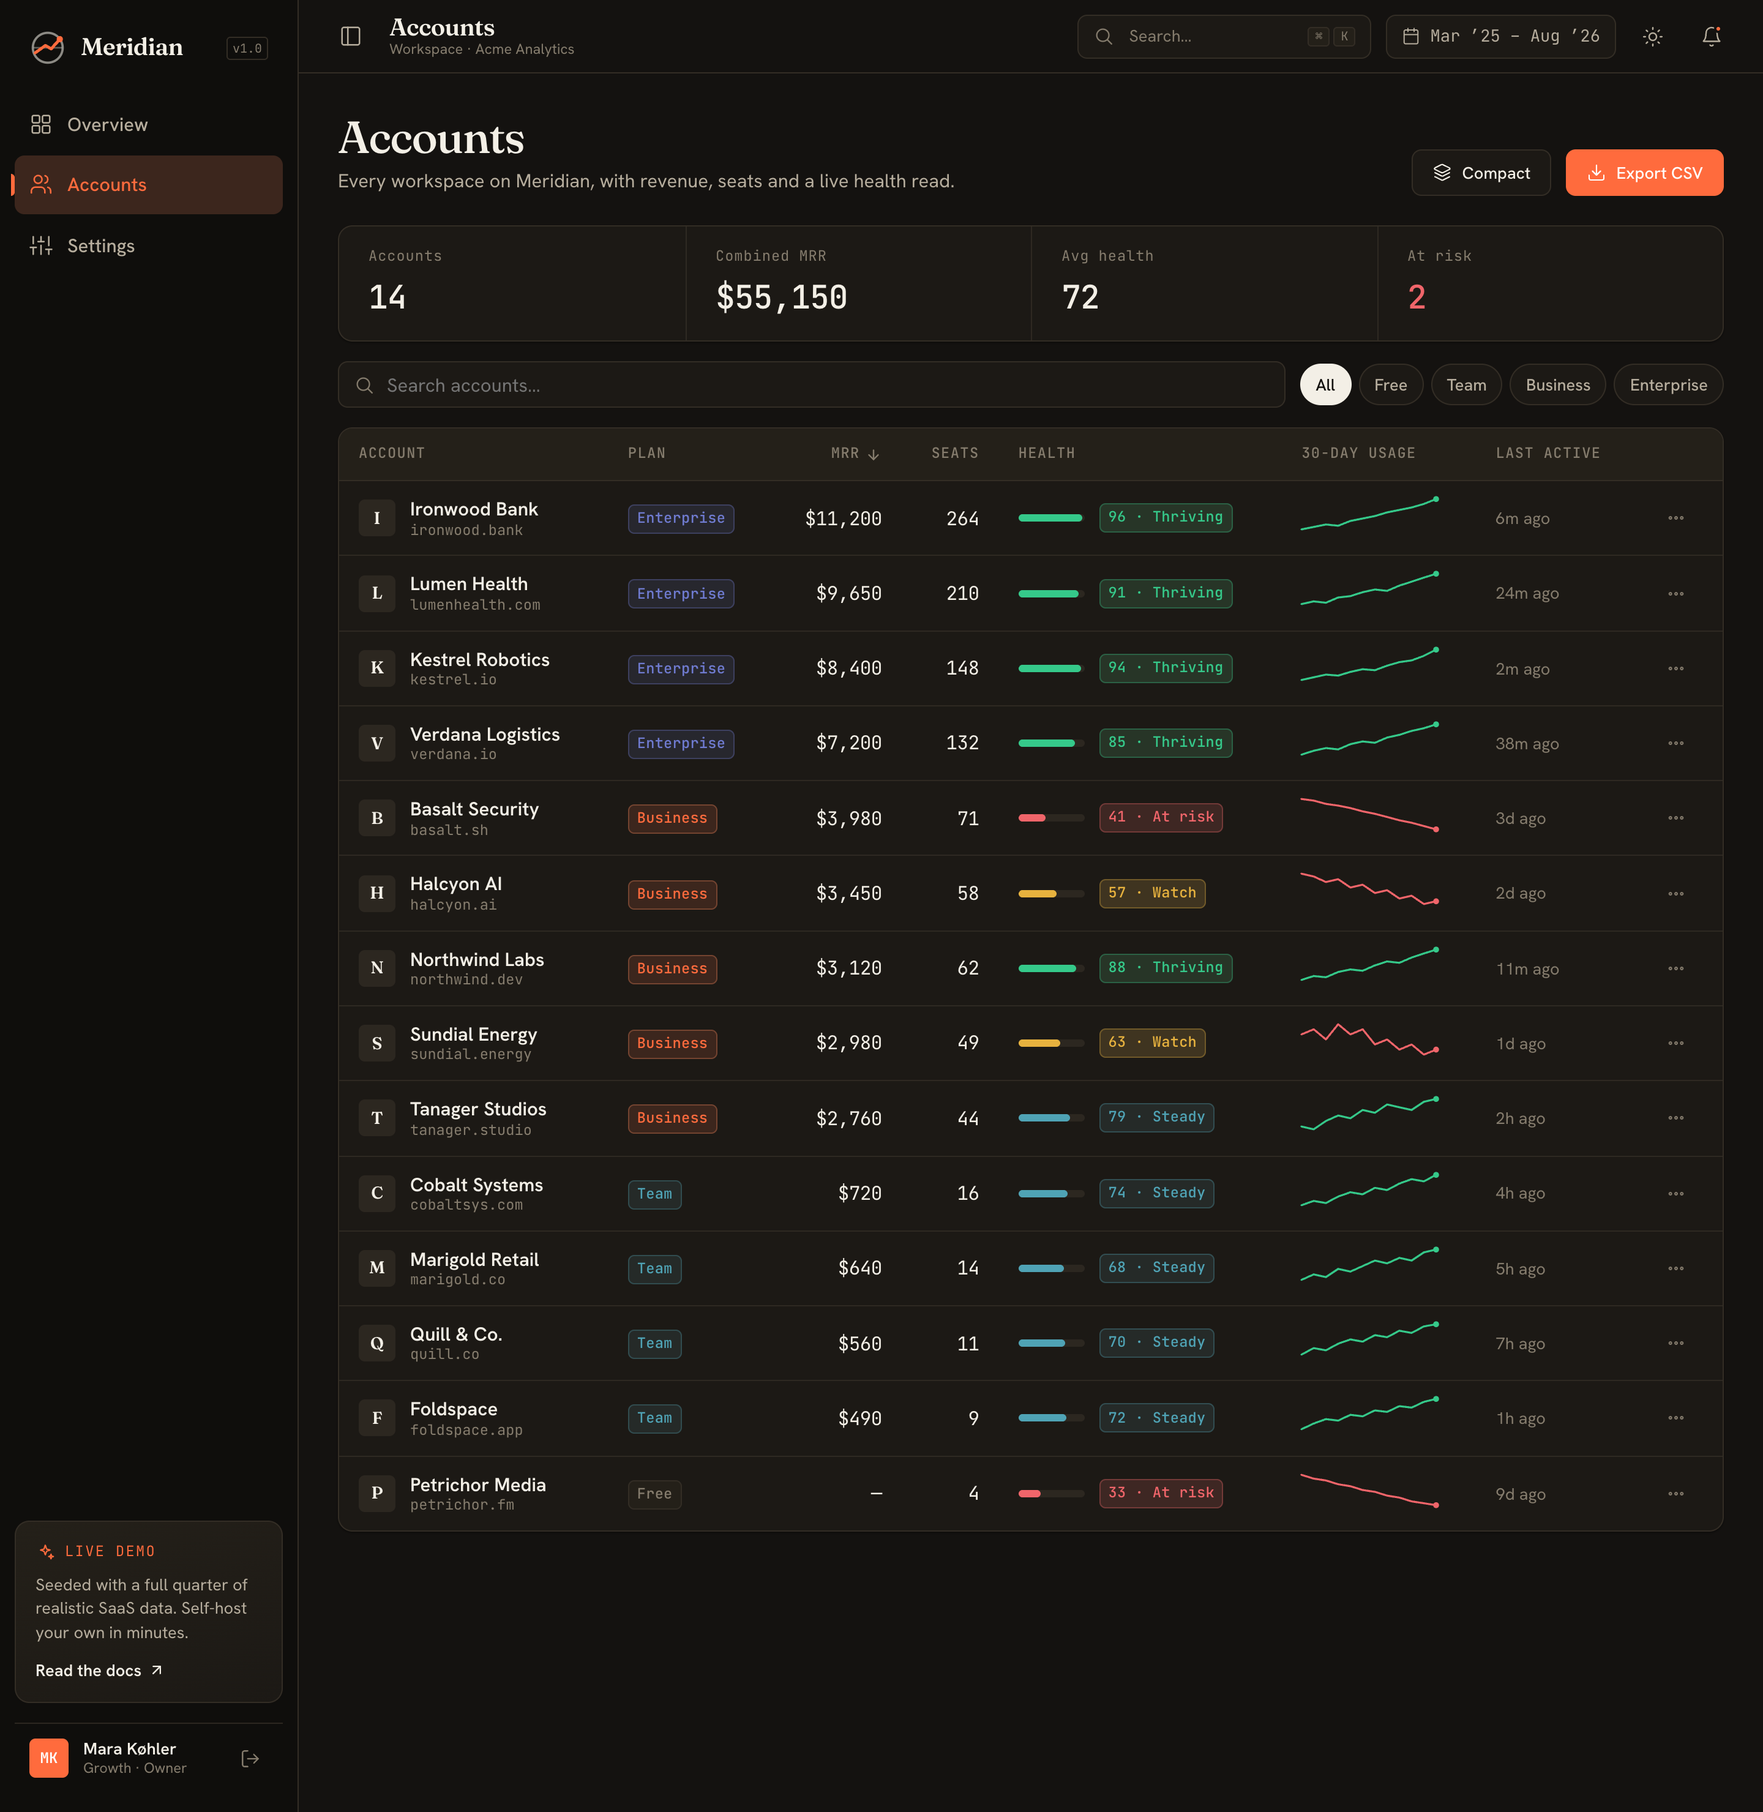
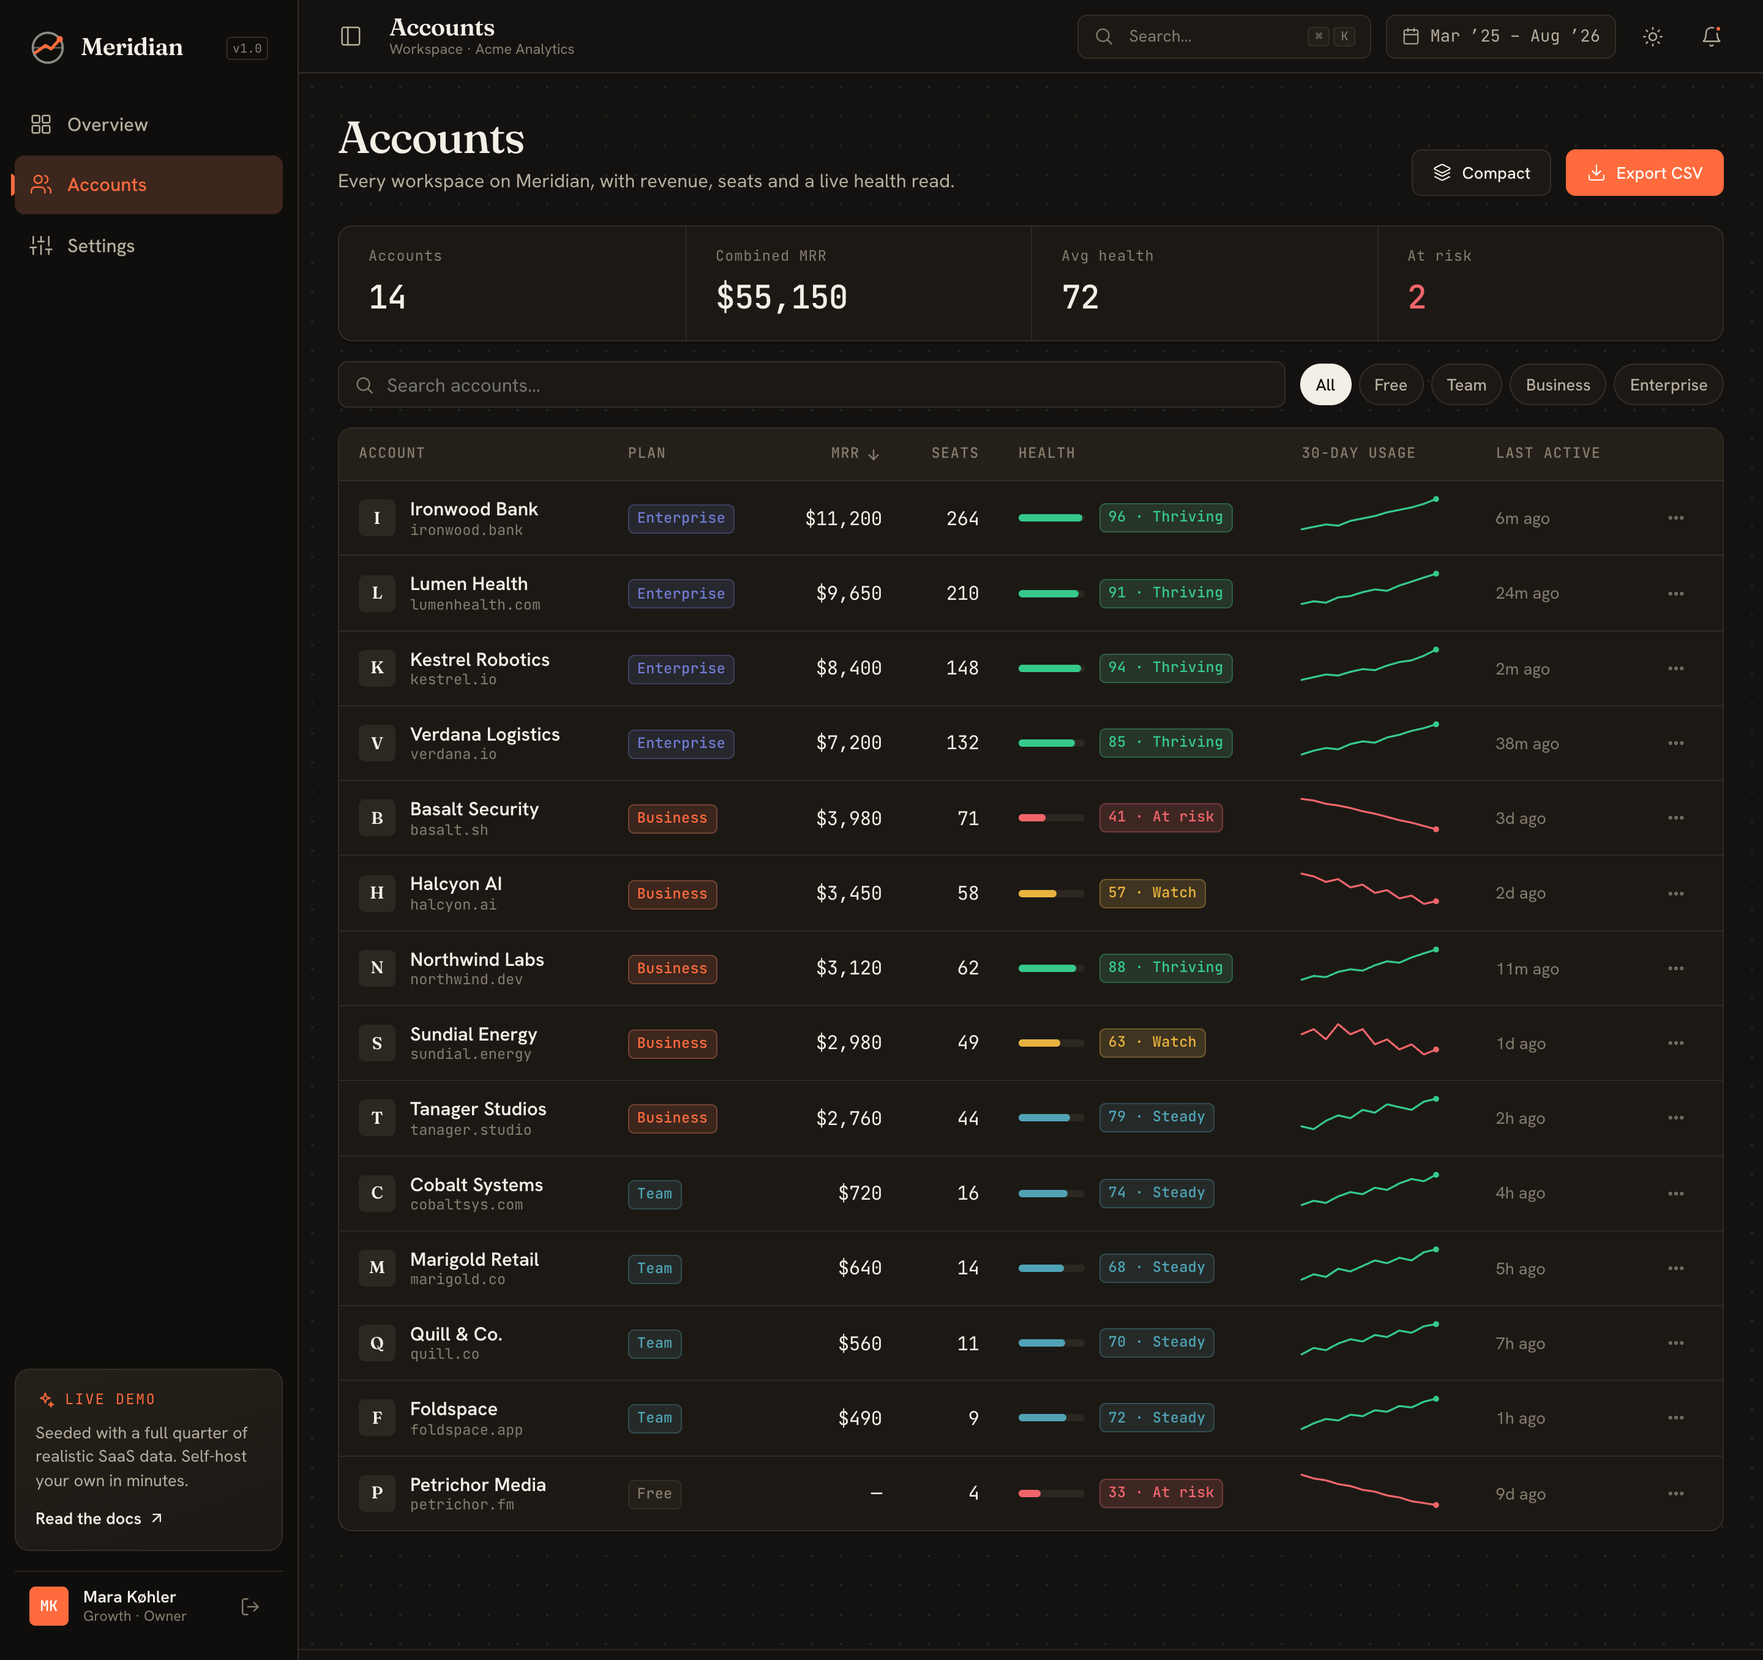
Add CI, polish charts & KPI cards, footer links, dot-grid texture
- CI: GitHub Actions workflow builds (npm ci + npm run build) on PRs and pushes to main
- KPI cards: icon chips, accent gradient on the featured tile, colored sparklines
- Charts: endpoint value labels + richer gradients on the MRR/usage areas, crosshair
  axis pointers, rounded movement bars
- Add a visible site footer with dofollow links (GitHub, Interviews Vector, AII Stack,
  UPSC Geeks); fix host display so it renders
- Subtle dot-grid texture behind content for depth
- "Read the docs" / "View on GitHub" now point at the repo
- Re-capture all screenshots; add CI badge to the README

diff --git a/src/app/data/chart-options.ts b/src/app/data/chart-options.ts
@@ -27,11 +27,12 @@ const axisLabelMono = (vt: VizTheme, extra: object = {}) => ({
    -------------------------------------------------------------------------- */
 export function mrrAreaOption(vt: VizTheme, months: MonthPoint[]): EChartsOption {
   return {
-    animationDuration: 600,
-    grid: { left: 8, right: 14, top: 18, bottom: 6, containLabel: true },
+    animationDuration: 700,
+    grid: { left: 8, right: 70, top: 22, bottom: 6, containLabel: true },
     tooltip: {
       trigger: 'axis',
       ...tooltipBase(vt),
+      axisPointer: { type: 'line', lineStyle: { color: vt.accent, width: 1, type: 'dashed' } },
       formatter: (p: any) => {
         const d = p[0];
         return `<div style="font-family:${vt.fontMono};font-size:11px;color:${vt.textMuted};letter-spacing:.04em">${d.axisValue}</div>
@@ -61,15 +62,25 @@ export function mrrAreaOption(vt: VizTheme, months: MonthPoint[]): EChartsOption
         symbolSize: 6,
         showSymbol: false,
         data: months.map((m) => m.mrr),
-        lineStyle: { color: vt.accent, width: 2.5 },
+        lineStyle: { color: vt.accent, width: 3, shadowColor: vt.accent + '44', shadowBlur: 12, shadowOffsetY: 6 },
         itemStyle: { color: vt.accent, borderColor: vt.surface, borderWidth: 2 },
         emphasis: { focus: 'series' },
+        endLabel: {
+          show: true,
+          color: vt.accent,
+          fontFamily: vt.fontMono,
+          fontWeight: 700,
+          fontSize: 12,
+          formatter: (p: any) => usdCompact(p.value),
+          offset: [6, 0],
+        },
         areaStyle: {
           color: {
             type: 'linear',
             x: 0, y: 0, x2: 0, y2: 1,
             colorStops: [
-              { offset: 0, color: vt.accent + '55' },
+              { offset: 0, color: vt.accent + '66' },
+              { offset: 0.55, color: vt.accent + '22' },
               { offset: 1, color: vt.accent + '00' },
             ],
           },
@@ -89,7 +100,7 @@ export function movementsOption(vt: VizTheme, months: MonthPoint[]): EChartsOpti
     type: 'bar' as const,
     stack: 'mov',
     data: last.map((m) => (neg ? -(m[key] as number) : (m[key] as number))),
-    itemStyle: { color, borderRadius: 1 },
+    itemStyle: { color, borderRadius: 2 },
     barMaxWidth: 22,
     emphasis: { focus: 'series' as const },
   });
@@ -234,11 +245,12 @@ export function funnelOption(vt: VizTheme, steps: FunnelStep[]): EChartsOption {
    -------------------------------------------------------------------------- */
 export function usageAreaOption(vt: VizTheme, labels: string[], values: number[]): EChartsOption {
   return {
-    animationDuration: 500,
-    grid: { left: 4, right: 12, top: 16, bottom: 4, containLabel: true },
+    animationDuration: 600,
+    grid: { left: 4, right: 40, top: 16, bottom: 4, containLabel: true },
     tooltip: {
       trigger: 'axis',
       ...tooltipBase(vt),
+      axisPointer: { type: 'line', lineStyle: { color: vt.accent, width: 1, type: 'dashed' } },
       formatter: (p: any) => {
         const d = p[0];
         return `<div style="font-family:${vt.fontMono};font-size:11px;color:${vt.textMuted}">${d.axisValue}</div>
@@ -266,12 +278,22 @@ export function usageAreaOption(vt: VizTheme, labels: string[], values: number[]
         smooth: 0.4,
         symbol: 'none',
         data: values,
-        lineStyle: { color: vt.accent, width: 2.5 },
+        lineStyle: { color: vt.accent, width: 3 },
+        endLabel: {
+          show: true,
+          color: vt.accent,
+          fontFamily: vt.fontMono,
+          fontWeight: 700,
+          fontSize: 12,
+          formatter: (p: any) => `${p.value}`,
+          offset: [6, 0],
+        },
         areaStyle: {
           color: {
             type: 'linear', x: 0, y: 0, x2: 0, y2: 1,
             colorStops: [
-              { offset: 0, color: vt.accent + '4d' },
+              { offset: 0, color: vt.accent + '5c' },
+              { offset: 0.55, color: vt.accent + '1f' },
               { offset: 1, color: vt.accent + '00' },
             ],
           },

diff --git a/src/app/shared/stat-tile.ts b/src/app/shared/stat-tile.ts
@@ -1,4 +1,4 @@
-import { ChangeDetectionStrategy, Component, input } from '@angular/core';
+import { ChangeDetectionStrategy, Component, computed, input } from '@angular/core';
 import { Icon } from '../core/icon';
 import { Sparkline } from './sparkline';
 import { Kpi } from '../data/seed';
@@ -8,9 +8,10 @@ import { Kpi } from '../data/seed';
   changeDetection: ChangeDetectionStrategy.OnPush,
   imports: [Icon, Sparkline],
   template: `
-    <article class="tile" [class.feat]="featured()">
+    <article class="tile" [class.feat]="featured()" [style.--tile-accent]="accent()">
       <header>
         <span class="eyebrow">{{ kpi().label }}</span>
+        <span class="chip"><app-icon [name]="kpi().icon" [size]="16" [stroke]="1.8" /></span>
       </header>
 
       <div class="value num">{{ kpi().value }}</div>
@@ -23,11 +24,12 @@ import { Kpi } from '../data/seed';
         <span class="foot">{{ kpi().footnote }}</span>
       </div>
 
-      <app-sparkline class="spark" [data]="kpi().spark" [h]="featured() ? 48 : 36" [area]="true" />
+      <app-sparkline class="spark" [data]="kpi().spark" [h]="featured() ? 54 : 40" [area]="true" />
     </article>
   `,
   styles: `
     .tile {
+      position: relative;
       display: flex; flex-direction: column; gap: var(--sp-2);
       padding: var(--sp-4);
       background: var(--surface);
@@ -35,24 +37,40 @@ import { Kpi } from '../data/seed';
       border-radius: var(--r-lg);
       box-shadow: var(--shadow-1);
       min-height: 100%;
-      transition: border-color var(--dur) var(--ease), transform var(--dur) var(--ease);
+      overflow: hidden;
+      transition: border-color var(--dur) var(--ease), transform var(--dur) var(--ease), box-shadow var(--dur) var(--ease);
     }
-    .tile:hover { border-color: var(--border-strong); transform: translateY(-1px); }
-    header { display: flex; align-items: center; justify-content: space-between; }
-    .value {
-      font-size: var(--step-3);
-      font-weight: 500;
-      line-height: 1;
-      color: var(--text);
+    .tile::before {
+      content: ''; position: absolute; inset: 0 0 auto 0; height: 2px;
+      background: var(--tile-accent); opacity: 0; transition: opacity var(--dur) var(--ease);
     }
+    .tile:hover { border-color: var(--border-strong); transform: translateY(-2px); box-shadow: var(--shadow-2); }
+    .tile:hover::before { opacity: .8; }
+    .feat {
+      background: linear-gradient(165deg, color-mix(in oklab, var(--accent) 9%, var(--surface)), var(--surface) 62%);
+      border-color: var(--accent-line);
+    }
+    .feat::before { opacity: 1; }
+
+    header { display: flex; align-items: center; justify-content: space-between; gap: var(--sp-2); }
+    .chip {
+      width: 30px; height: 30px; flex-shrink: 0;
+      display: grid; place-items: center; border-radius: var(--r-sm);
+      background: color-mix(in oklab, var(--tile-accent) 14%, var(--surface));
+      color: var(--tile-accent);
+    }
+    .value { font-size: var(--step-3); font-weight: 500; line-height: 1; color: var(--text); }
     .feat .value { font-size: var(--step-4); }
     .meta { display: flex; align-items: center; gap: var(--sp-2); flex-wrap: wrap; }
     .foot { font-size: var(--step--2); color: var(--text-3); }
-    .spark { margin-top: auto; width: 100%; color: var(--accent); }
-    .feat .spark { color: var(--accent); }
+    .spark { margin-top: auto; width: 100%; color: var(--tile-accent); }
   `,
 })
 export class StatTile {
   readonly kpi = input.required<Kpi>();
   readonly featured = input(false);
+
+  protected readonly accent = computed(() =>
+    this.featured() ? 'var(--accent)' : this.kpi().good ? 'var(--pos)' : 'var(--neg)',
+  );
 }

diff --git a/src/app/layout/footer.ts b/src/app/layout/footer.ts
@@ -1,0 +1,61 @@
+import { ChangeDetectionStrategy, Component } from '@angular/core';
+import { Icon } from '../core/icon';
+
+@Component({
+  selector: 'app-footer',
+  changeDetection: ChangeDetectionStrategy.OnPush,
+  imports: [Icon],
+  template: `
+    <footer class="footer">
+      <div class="inner">
+        <div class="brand">
+          <span class="mark" aria-hidden="true">
+            <svg viewBox="0 0 24 24" fill="none">
+              <circle cx="12" cy="12" r="10" stroke="currentColor" stroke-width="1.6" opacity=".5" />
+              <path d="M4 15 10.5 10.5 14 12.5 20 7" stroke="var(--accent)" stroke-width="2"
+                    stroke-linecap="round" stroke-linejoin="round" />
+            </svg>
+          </span>
+          <span class="name">Meridian</span>
+          <span class="dot">·</span>
+          <span class="muted">© 2026 · MIT</span>
+        </div>
+
+        <nav class="links" aria-label="Related resources">
+          <a href="https://github.com/MohammadWasi/meridian" target="_blank" rel="noopener">
+            GitHub <app-icon name="arrow-up-right" [size]="13" [stroke]="2" />
+          </a>
+          <a href="https://www.interviewsvector.com/" target="_blank" rel="noopener">Interviews Vector</a>
+          <a href="https://aiistack.com/" target="_blank" rel="noopener">AII Stack</a>
+          <a href="https://www.upscgeeks.in/" target="_blank" rel="noopener">UPSC Geeks</a>
+        </nav>
+      </div>
+    </footer>
+  `,
+  styles: `
+    :host { display: block; }
+    .footer { border-top: 1px solid var(--hairline); margin-top: var(--sp-6); }
+    .inner {
+      max-width: var(--content-max);
+      margin: 0 auto;
+      padding: var(--sp-5) var(--sp-6);
+      display: flex; align-items: center; justify-content: space-between;
+      gap: var(--sp-4); flex-wrap: wrap;
+    }
+    .brand { display: flex; align-items: center; gap: var(--sp-2); font-size: var(--step--1); }
+    .mark { width: 20px; height: 20px; color: var(--text); }
+    .mark svg { width: 100%; height: 100%; display: block; }
+    .name { font-family: var(--font-display); font-weight: 600; letter-spacing: -.01em; }
+    .dot { color: var(--text-3); }
+    .muted { color: var(--text-3); font-family: var(--font-mono); font-size: var(--step--2); }
+    .links { display: flex; align-items: center; gap: var(--sp-5); flex-wrap: wrap; }
+    .links a {
+      display: inline-flex; align-items: center; gap: 4px;
+      color: var(--text-2); font-size: var(--step--1); font-weight: 500;
+      transition: color var(--dur) var(--ease);
+    }
+    .links a:hover { color: var(--accent); }
+    @media (max-width: 640px) { .inner { padding: var(--sp-4); } .links { gap: var(--sp-4); } }
+  `,
+})
+export class Footer {}

diff --git a/src/app/data/seed.ts b/src/app/data/seed.ts
@@ -5,6 +5,8 @@
    and account rows roll up to the totals shown on Overview.
    ========================================================================== */
 
+import { IconName } from '../core/icon';
+
 export interface MonthPoint {
   label: string;
   mrr: number;
@@ -70,6 +72,7 @@ export interface Kpi {
   good: boolean; // is this movement good?
   spark: number[];
   footnote: string;
+  icon: IconName;
 }
 
 const mrrMoM = ((latest.mrr - prev.mrr) / prev.mrr) * 100;
@@ -86,6 +89,7 @@ export const KPIS: Kpi[] = [
     good: true,
     spark: sparkMrr,
     footnote: `${'$4.93M'} ARR`,
+    icon: 'card',
   },
   {
     key: 'nrr',
@@ -97,6 +101,7 @@ export const KPIS: Kpi[] = [
     good: true,
     spark: [104, 105, 106, 106, 107, 108, 108, 109, 110, 110, 111, 112],
     footnote: 'trailing 12-mo, logo-weighted',
+    icon: 'target',
   },
   {
     key: 'accounts',
@@ -108,6 +113,7 @@ export const KPIS: Kpi[] = [
     good: true,
     spark: [1042, 1071, 1096, 1118, 1141, 1163, 1188, 1205, 1226, 1243, 1262, 1284],
     footnote: '87 on Enterprise',
+    icon: 'accounts',
   },
   {
     key: 'activation',
@@ -119,6 +125,7 @@ export const KPIS: Kpi[] = [
     good: true,
     spark: [58, 59, 61, 60, 62, 63, 64, 64, 66, 66, 67, 68.4],
     footnote: 'trial → activated in 14 days',
+    icon: 'zap',
   },
   {
     key: 'churn',
@@ -130,6 +137,7 @@ export const KPIS: Kpi[] = [
     good: true,
     spark: [3.1, 3.0, 2.9, 3.1, 2.8, 2.7, 2.8, 2.6, 2.5, 2.4, 2.4, 2.1],
     footnote: 'monthly, revenue-weighted',
+    icon: 'trending-down',
   },
 ];
 

diff --git a/src/app/app.ts b/src/app/app.ts
@@ -2,13 +2,14 @@ import { ChangeDetectionStrategy, Component, inject } from '@angular/core';
 import { RouterOutlet } from '@angular/router';
 import { Sidebar } from './layout/sidebar';
 import { Topbar } from './layout/topbar';
+import { Footer } from './layout/footer';
 import { CommandPalette } from './shared/command-palette';
 import { LayoutService } from './layout/layout.service';
 
 @Component({
   selector: 'app-root',
   changeDetection: ChangeDetectionStrategy.OnPush,
-  imports: [RouterOutlet, Sidebar, Topbar, CommandPalette],
+  imports: [RouterOutlet, Sidebar, Topbar, Footer, CommandPalette],
   templateUrl: './app.html',
   styleUrl: './app.css',
   host: {

diff --git a/src/app/layout/sidebar.ts b/src/app/layout/sidebar.ts
@@ -41,7 +41,7 @@ import { LayoutService } from './layout.service';
         <span>Live demo</span>
       </div>
       <p>Seeded with a full quarter of realistic SaaS data. Self-host your own in minutes.</p>
-      <a class="cta" href="https://github.com" target="_blank" rel="noopener">
+      <a class="cta" href="https://github.com/MohammadWasi/meridian" target="_blank" rel="noopener">
         Read the docs <app-icon name="arrow-up-right" [size]="14" [stroke]="2" />
       </a>
     </div>

diff --git a/src/app/features/settings/settings.html b/src/app/features/settings/settings.html
@@ -76,7 +76,7 @@
           <div><dt>Framework</dt><dd>Angular 22 · zoneless · SSR</dd></div>
           <div><dt>Charts</dt><dd>Apache ECharts · D3</dd></div>
         </dl>
-        <a class="btn" href="https://github.com" target="_blank" rel="noopener">
+        <a class="btn" href="https://github.com/MohammadWasi/meridian" target="_blank" rel="noopener">
           <app-icon name="arrow-up-right" [size]="16" [stroke]="2" /> View on GitHub
         </a>
       </section>

diff --git a/src/app/app.css b/src/app/app.css
@@ -23,7 +23,12 @@
   height: 100dvh;
   overflow: hidden;
 }
-.content { flex: 1; overflow-y: auto; scroll-behavior: smooth; }
+.content {
+  flex: 1; overflow-y: auto; scroll-behavior: smooth;
+  background-image: radial-gradient(var(--grid-dot) 1px, transparent 1.2px);
+  background-size: 24px 24px;
+  background-position: -1px -1px;
+}
 
 .scrim-m { display: none; }
 

diff --git a/src/app/app.html b/src/app/app.html
@@ -5,6 +5,7 @@
     <app-topbar />
     <main class="content">
       <router-outlet />
+      <app-footer />
     </main>
   </div>
 </div>

diff --git a/README.md b/README.md
@@ -7,6 +7,7 @@
   Built with Angular 22 — zoneless, SSR, signals — and designed as a statement piece, not a template.</p>
 
   <p>
+    <a href="https://github.com/MohammadWasi/meridian/actions/workflows/ci.yml"><img alt="CI" src="https://github.com/MohammadWasi/meridian/actions/workflows/ci.yml/badge.svg" /></a>
     <img alt="Angular 22" src="https://img.shields.io/badge/Angular-22-DD0031?style=flat-square" />
     <img alt="License: MIT" src="https://img.shields.io/badge/License-MIT-1e9e6a?style=flat-square" />
     <img alt="SSR" src="https://img.shields.io/badge/SSR-prerender%20%2B%20zoneless-ea5b2a?style=flat-square" />
